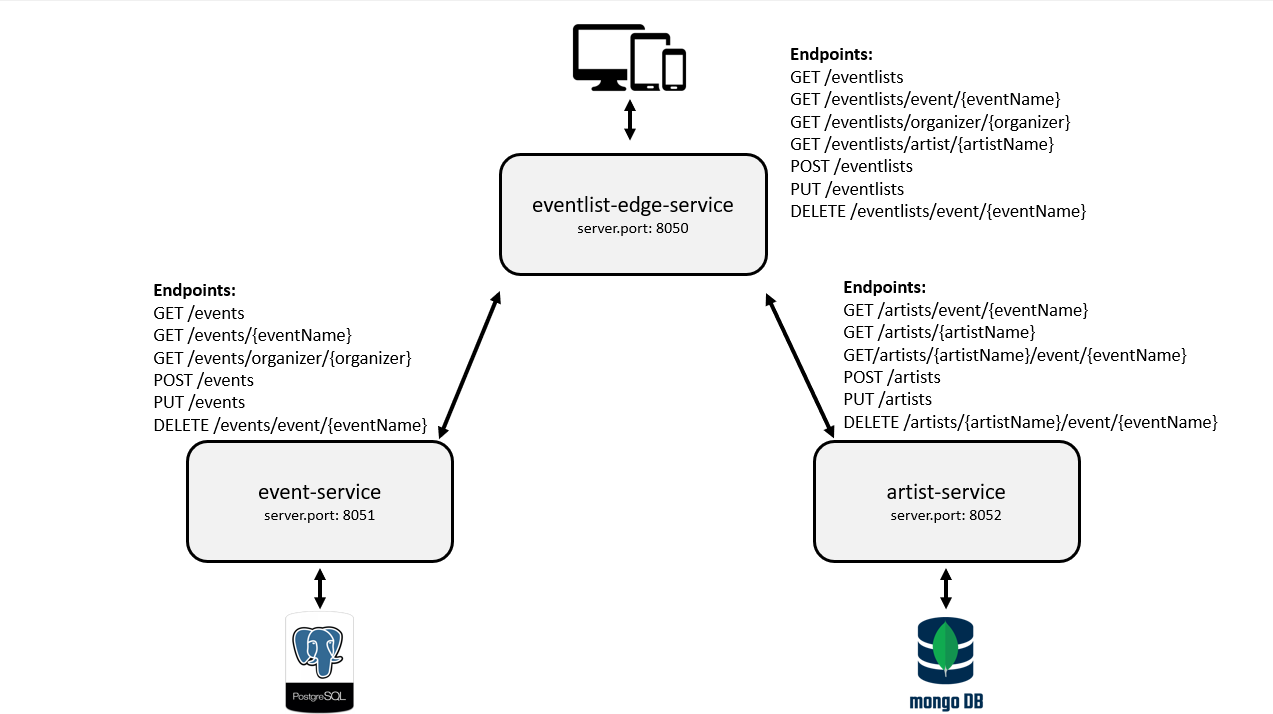
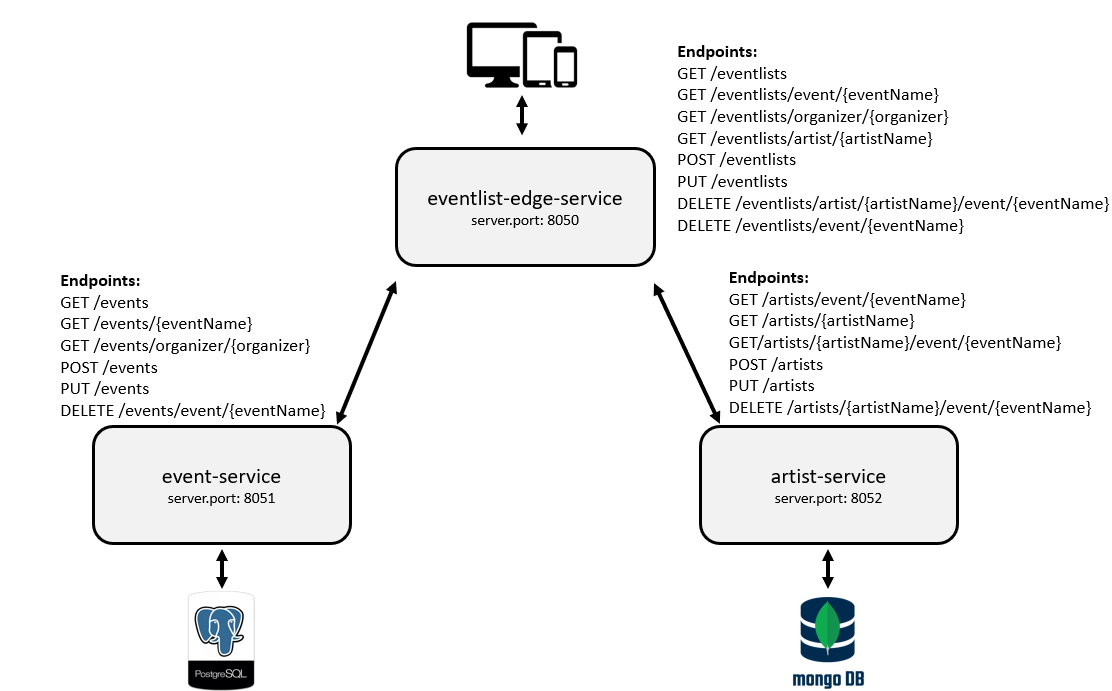
gdh-updateDelete

diff --git a/src/test/java/fact/it/eventlistedgeservice/TimetableControllerUnitTests.java b/src/test/java/fact/it/eventlistedgeservice/TimetableControllerUnitTests.java
@@ -248,7 +248,8 @@ public class TimetableControllerUnitTests {
 
         mockMvc.perform(post("/eventlists")
                 .param("eventName", artist2Event2.getEvent())
-                .param("artist", artist2Event2.getArtist())
+                        .param("organizer", "Organizer2")
+                .param("artistName", artist2Event2.getArtist())
                 .param("hour", artist2Event2.getHour().toString())
                 .param("minute", artist2Event2.getMinute().toString())
                 .contentType(MediaType.APPLICATION_JSON))
@@ -310,13 +311,6 @@ public class TimetableControllerUnitTests {
     @Test
     public void whenDeleteEventlist_thenReturnStatusOk() throws Exception {
 
-        // DELETE eventlisting from Artist DB & Event DB
-        mockServer.expect(ExpectedCount.once(),
-                requestTo(new URI("http://" + eventServiceBaseUrl + "/events/event/EventTBD")))
-                .andExpect(method(HttpMethod.DELETE))
-                .andRespond(withStatus(HttpStatus.OK)
-                );
-
         mockServer.expect(ExpectedCount.once(),
                 requestTo(new URI("http://" + artistServiceBaseUrl + "/artists/ArtistTBD/event/EventTBD")))
                 .andExpect(method(HttpMethod.DELETE))
@@ -324,8 +318,20 @@ public class TimetableControllerUnitTests {
                 );
 
 
-        mockMvc.perform(delete("/eventlists/{artistName}/event/{eventName}", "ArtistTBD", "EventTBD"))
+        mockMvc.perform(delete("/eventlists/artist/{artistName}/event/{eventName}", "ArtistTBD", "EventTBD"))
                 .andExpect(status().isOk());
+    }
+
+    @Test
+    public void whenDeleteEvent_thenReturnStatusOk() throws Exception{
+        mockServer.expect(ExpectedCount.once(),
+                        requestTo(new URI("http://" + eventServiceBaseUrl + "/events/event/EventTBD")))
+                .andExpect(method(HttpMethod.DELETE))
+                .andRespond(withStatus(HttpStatus.OK)
+                );
+        mockMvc.perform(delete("/eventlists/event/{eventName}", "EventTBD"))
+                .andExpect(status().isOk());
+
     }
 
 }

diff --git a/src/main/java/fact/it/eventlistedgeservice/controller/TimetableController.java b/src/main/java/fact/it/eventlistedgeservice/controller/TimetableController.java
@@ -109,11 +109,17 @@ public class TimetableController {
         return new Timetable(event, retrievedArtist);
     }
 
-    @DeleteMapping("eventlists/{artistName}/event/{eventName}")
+    @DeleteMapping("eventlists/artist/{artistName}/event/{eventName}")
     public ResponseEntity deleteEventlist(@PathVariable String eventName, @PathVariable String artistName){
-        restTemplate.delete("http://" + eventServiceBaseUrl + "/events/event/" + eventName);
         restTemplate.delete("http://" + artistServiceBaseUrl + "/artists/" + artistName + "/event/" + eventName);
+        return ResponseEntity.ok().build();
+    }
+
+    @DeleteMapping("eventlists/event/{eventName}")
+    public ResponseEntity deleteEvent(@PathVariable String eventName){
+        restTemplate.delete("http://" + eventServiceBaseUrl + "/events/event/" + eventName);
 
         return ResponseEntity.ok().build();
+
     }
 }

diff --git a/POSTMANREQUESTS.md b/POSTMANREQUESTS.md
@@ -1,15 +1,20 @@
 ### GET /eventlists
-![APT GET /Eventlists](src/assets/APTGETEventlists.png)
+![APT GET /eventlists](src/assets/APTGETEventlists.png)
 
 ### GET /eventlists/artist/Artist1
-![APT GET /Eventlists/artist/Artist1](src/assets/APTGETEventlistsArtistArtist1.png)
+![APT GET /eventlists/artist/Artist1](src/assets/APTGETEventlistsArtistArtist1.png)
 
 ### GET /eventlists/event/Event1
-![APT GET /Eventlists/artist/Artist1](src/assets/APTGETEventlistsEventEvent1.png)
+![APT GET /eventlists/artist/Artist1](src/assets/APTGETEventlistsEventEvent1.png)
 
 ### GET /eventlists/organizer/Organizer2
-![APT GET /Eventlists/organizer/Organizer2](src/assets/APTGETEventlistsOrganizerOrganizer2.png)
+![APT GET /eventlists/organizer/Organizer2](src/assets/APTGETEventlistsOrganizerOrganizer2.png)
 
-### POST /eventlists
-![APT POST /Eventlists](src/assets/APTPOSTEventlists.png)
+### POST /eventlists?eventName=Event3&organizer=Organizer3&artistName=Artist1&hour=0&minute=0
+![APT POST /eventlists?eventName=Event3&organizer=Organizer3&artistName=Artist1&hour=0&minute=0](src/assets/APTPOSTEventlists.png)
 
+### PUT /eventlists?eventName=Event3&artistName=Artist1&hour=22&minute=30
+![APT PUT /eventlists?eventName=Event3&artistName=Artist1&hour=22&minute=30](src/assets/APTPUTEventlists.png)
+
+### DELETE /eventlists/Artist1/event/Event3
+![APT DELETE /eventlists/Artist1/event/Event3](src/assets/APTDELETEEventlists.png)
